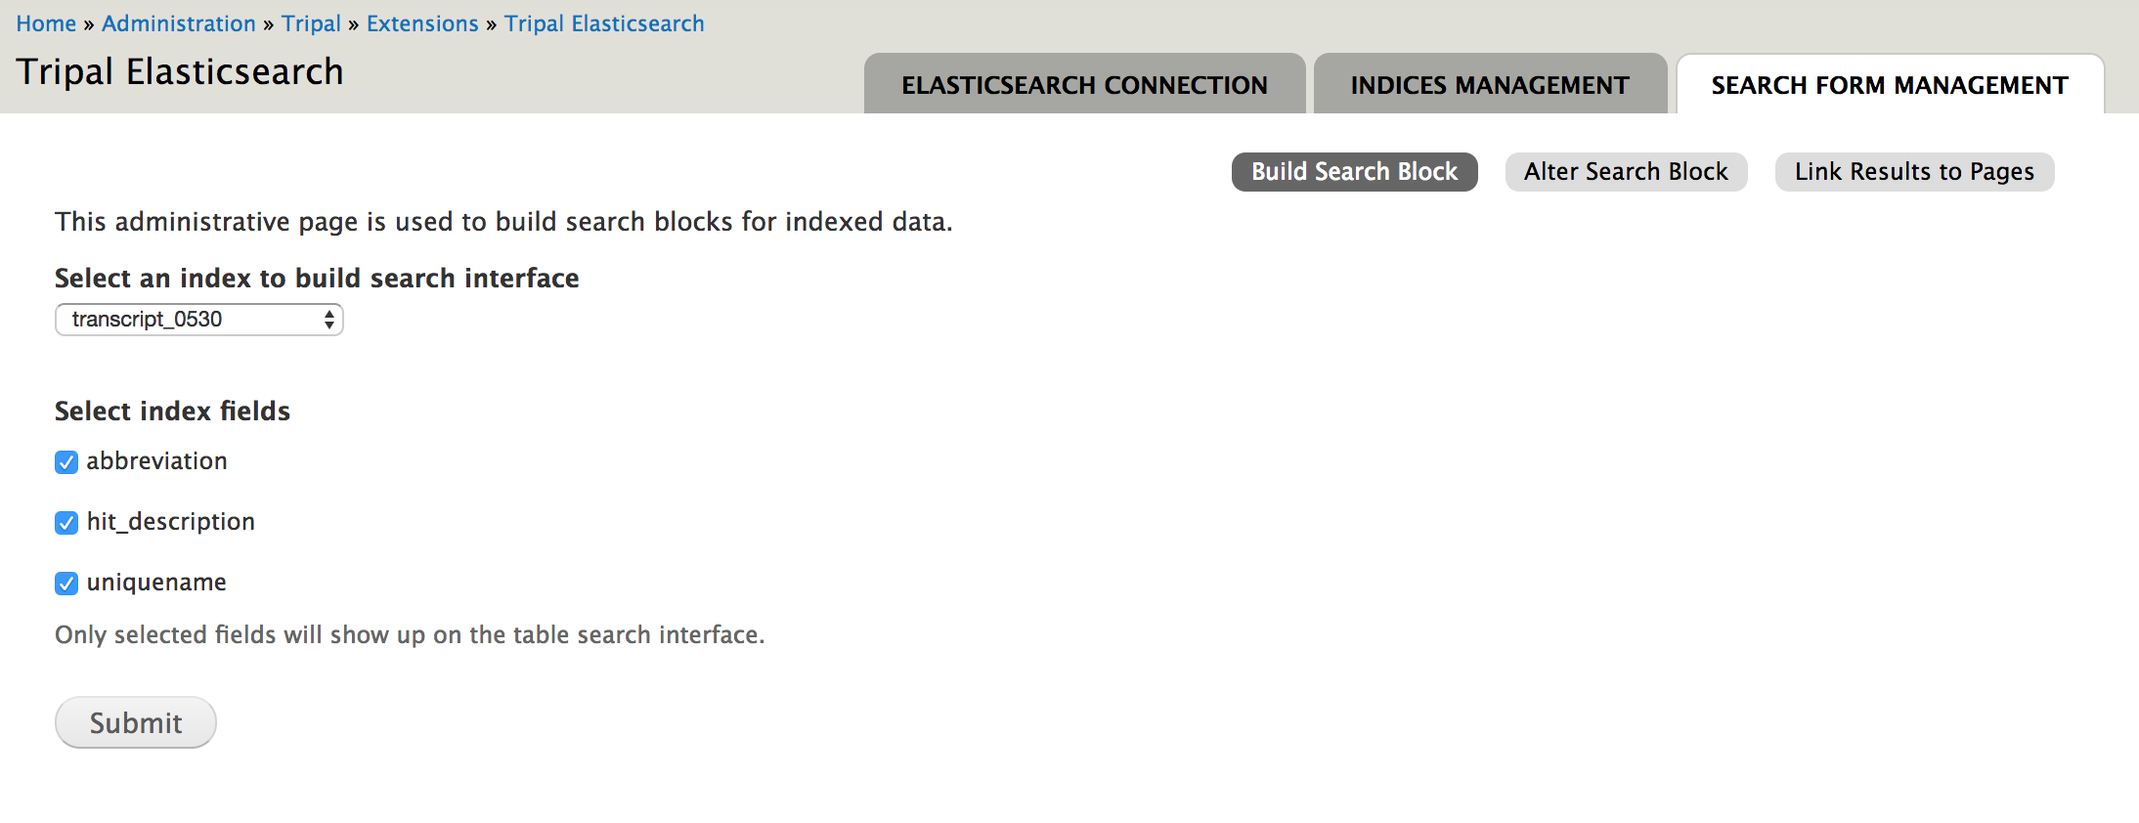
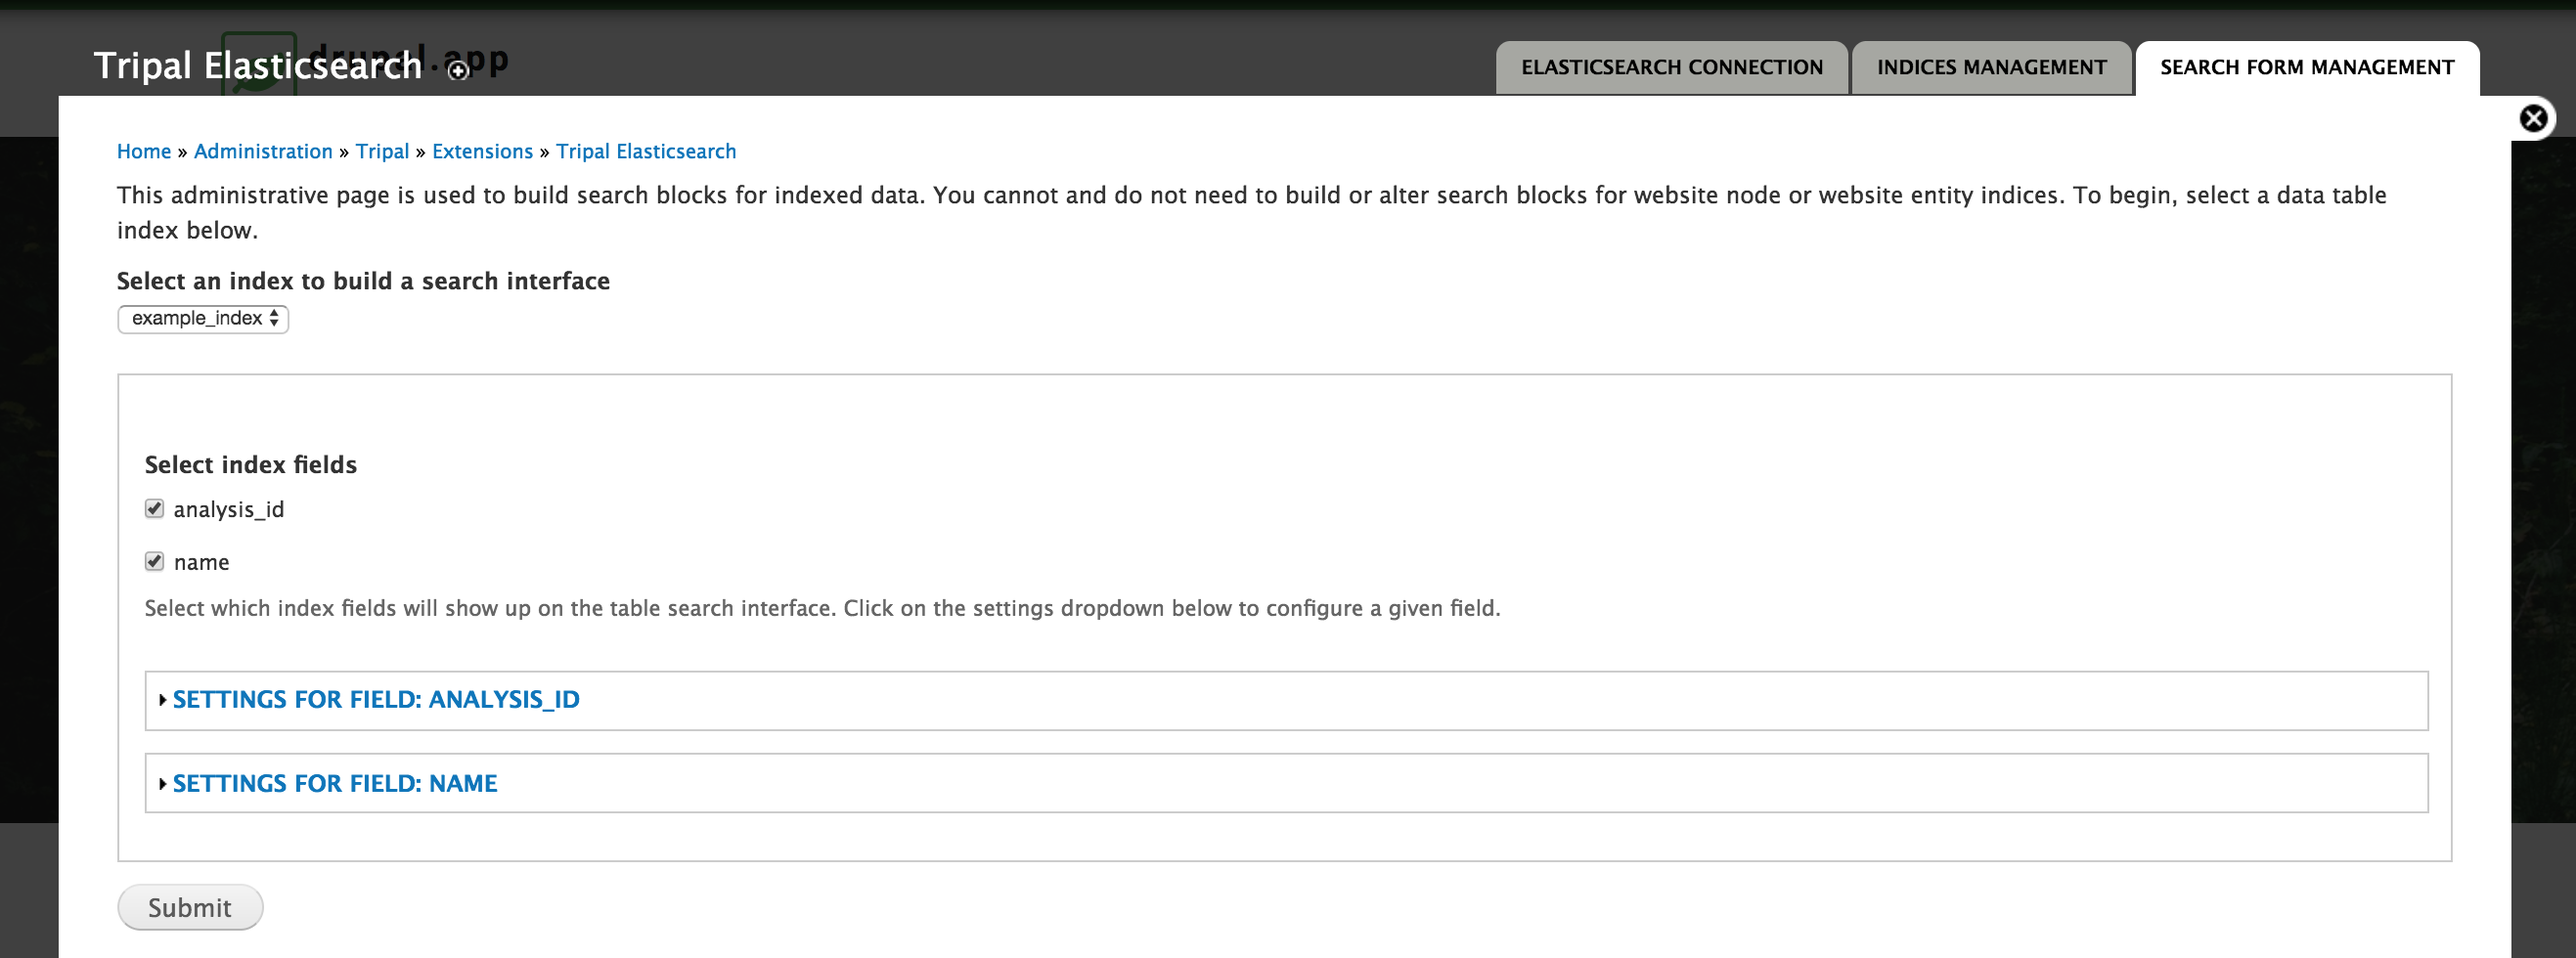
update dox to new interface

Changed region(s): [[0.0, 0.0, 1.0, 1.0]]

diff --git a/README.md b/README.md
@@ -16,34 +16,56 @@ php composer.phar require "elasticsearch/elasticsearch:~5.0"
 
 For more details, go to https://www.elastic.co/guide/en/elasticsearch/client/php-api/current/_quickstart.html.
 
-# Connect to Elastic cluster
+# Connecting to Elasticsearch Servers
+The Tripal Elasticsearch module allows connections to local and remote servers.  Your local connection is the server for your own site: you will be able to manage your indices and the details of this cluster.  Note that your Elasticsearch server need not be hosted alongside your Tripal site: local means that is the service that indexes and searches your **this Tripal site**.  Remote connections allow you to connect to other websites and include their search results on your own.  Remote services are managed on their respective sites.
+
+## Connect to your local Elastic cluster
 
 Go to `http://[your-tripal-site-domain]/admin/tripal/extension/tripal_elasticsearch` and 
-enter the host and port of your elastic cluster. For example, the image below shows that
+enter the host and port of your elastic cluster.  Make sure that the Server Type radio button is set to **local**. For example, the image below shows that
 the Elastic is running on the same host as the Tripal site, and the port is 9203.
 
+![connect to elastic](images/elastic_search_connect.png)
 
-![connect to elastic](images/elasticsearch_connection.png)
+### Local Elasticsearch Server Health
+
+This table provides feedback on the health of your connected local Elasticsearch Server.  If your connection is succesful, the Status column will be Green. For more information on the returned statistics, please see [the Elasticsearch documentation](https://www.elastic.co/guide/en/elasticsearch/reference/current/_cluster_health.html).
+
+## Connect to a remote server
+
+To add a new remote Elasticsearch server, select the Remote Server Type radio button,  fill out the server URL, Label, and Description, and press the Save Remote Host button. 
+
+After connecting a remote server, it will be displayed in the remote server health table (example below).  If the connection is successful, the Status column will be green/Active and you can include this remote connection in your search interface.  If the status remains Red, ensure that you have the correct URL, and that your firewall is not blocking connections.  You may also edit and delete your remote servers using this table.
+
+![remote server health](images/remote_server.png)
 
 # Indexing
 
-Indexing interface: `http://[your-tripal-site-domain]/admin/tripal/extension/tripal_elasticsearch/indices_management`
+Once a local Elasticsearch server is connected, you will need to index data so that it is searchable. The index management interface is located at: `http://[your-tripal-site-domain]/admin/tripal/extension/tripal_elasticsearch/indices_management`
 
+Please note that that the indices of remote Elasticsearch servers cannot be created or edited.
 
-## Indexing website
+## Creating a new Index
 
-With website indexing, you need to:
+You can create a new index by clocking on the create Index tab, or navigating to `http://[your-tripal-site-domain]/admin/tripal/extension/tripal_elasticsearch/indices_management/create`.  
 
-* select a number of cron queues
-* select `website`
-* enter website base url.
+For all index types, you need to:
+
+* select a number of cron queues to utilize for the indexing job.
+* select an index type.
+* Decide if the index will be exposed to Cross-Site Search.
+
+#### CRON queues
 
 You can select up to 10 cron queues. Jobs in cron queues can be executed in parallel. For example, if you
-have 1000 pages to index and you select cron queues, 1000 indexing records will be generated and evenly 
+have 1000 pages to index and you select 5 cron queues, 1000 indexing records will be generated and evenly 
 distributed to the 5 cron queues. Then you will be able to set up 5 threads for parallel indexing.
 
-## Indexing database tables
+#### Index types
 
+There are three types of indices: Website nodes, Website entities, and Database tables.  The website-wide indices are intended to index all Tripal 2 or Tripal 3 content (and any other content on your site of that type), respectively, and cannot be configured beyond Token settings. Database table indices can be customized by indexing and displaying specific fields.
+
+## Indexing database tables
 
 The Tripal Elasticsearch module allows you to index any tables from the public and chado schema.
 You can index all fields or a subset of fields from a table. You can select mapping types for each fields. 
@@ -89,24 +111,27 @@ crontab -e
 
 # Build search blocks
 
-After your database tables get indexed, you can build a search interface for them.
+After your database tables get indexed, you can build a search interface for them.  Note that search blocks for node and entities are configured automatically and cannot be customized.  
 You can choose to expose all table fields or a subset of fields for searching.
 
 The admin page for building search blocks is at `http://[your-tripal-site-domain]/admin/tripal/extension/tripal_elasticsearch/search_form_management`.
 
 ![search block](images/build-search-block.png)
 
-The module also provides an admin page for altering search interfaces.
+You can configure the settings for each field in the search block.  Expanding the field's dropdown menu will allow you to change the title, description, field type, weight, and URL link.
 
 ![alter search interface](images/alter-search-block.png)
 
-# Link search results to pages
+## URL links
 
-The search results can be used to build URLs and link the results to particular pages 
-through the admin page `http://[your-tripal-site-domain]/admin/tripal/extension/tripal_elasticsearch/search_form_management/link_results_to_pages`. 
-For example:
+The URL link region of each field will let you configure URL links for that field. Linked fields can be static `(https://www.ncbi.nim.nih.gov)` or dynamic `(organism/[genus]/[species])`.
 
-![link results](images/link-results-to-page.png)
+## Field types
+
+The field type available to users in the search form. `textfield` indicates a text input box. `select` indicates a dropdown menu box. If this field contains more than 50 unique values in the database table, only the `textfield` will be available.
+
+If you choose a `select` field type, you must provide **key|value pairs** to build the dropdown box.  The keys should be the true values in your database table, and the values can be anything that you want to show to your users. key|value pairs must be placed within brackets.  For example, `[key|value]`.
+
 
 # Create, update and delete pages
 
